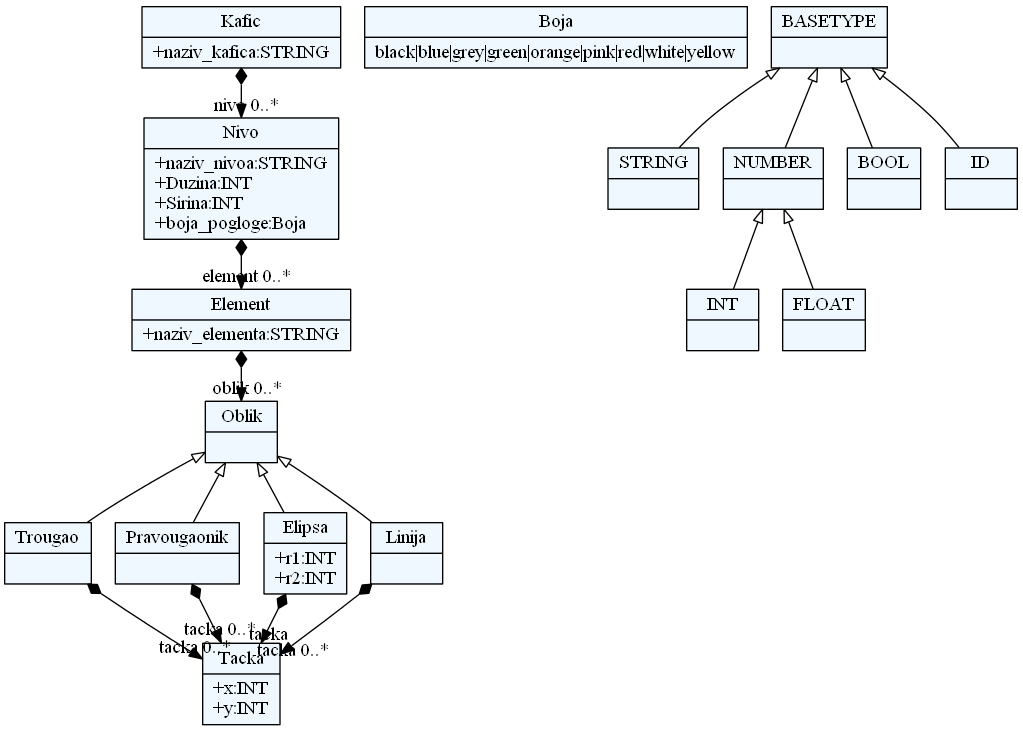
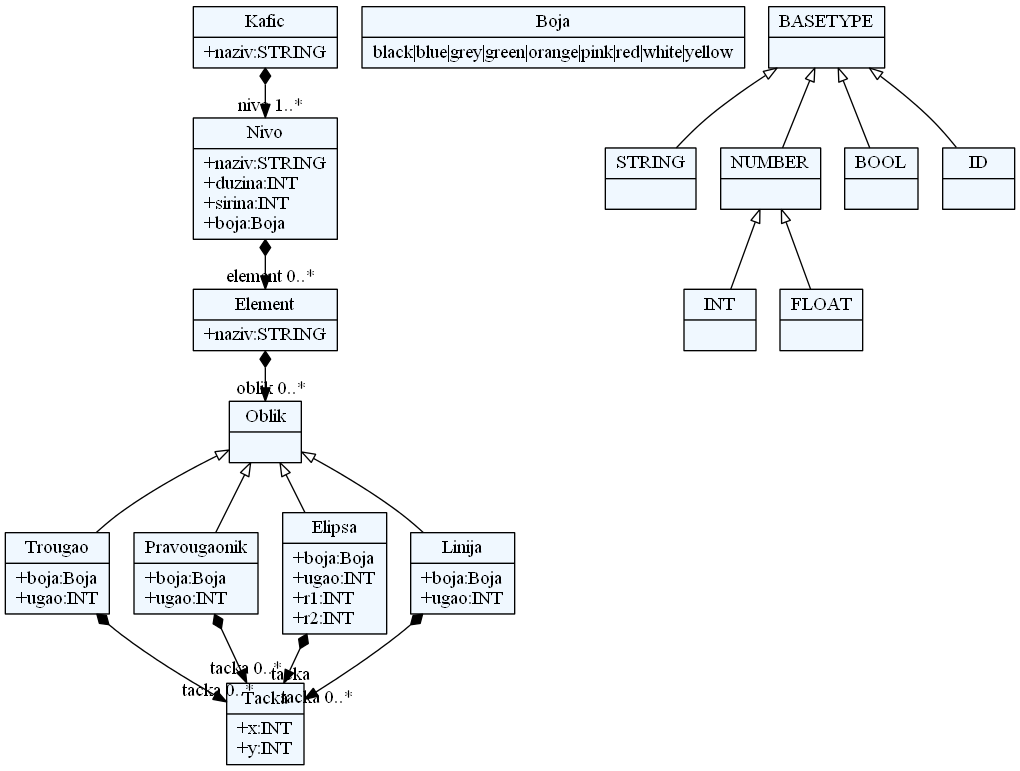
Dodati boja i ugao kao atributi za oblik, i promenjeno da kafic ima 1 ili vise nivoa (makar prizemlje)

Changed region(s): [[0.0, 0.0, 1.0, 0.9932], [0.8814, 0.1204, 0.9118, 0.1505], [0.1216, 0.1806, 0.152, 0.2107]]

diff --git a/JSDProject/generation/languageInterpreter.py b/JSDProject/generation/languageInterpreter.py
@@ -8,18 +8,18 @@ class Interpreter(object):
         
     def interpret(self):
         
-        print (self.model.naziv_kafica)
+        print (self.model.naziv)
         print ('#####')
         for nivo in self.model.nivo:
-            print(nivo.naziv_nivoa)
+            print(nivo.naziv)
         print ('#####')
         for nivo in self.model.nivo:
-            print(nivo.naziv_nivoa+" : \n")
+            print(nivo.naziv+" : \n")
             for element in nivo.element:
-                print ("\t"+ element.naziv_elementa)
+                print ("\t"+ element.naziv)
             print ('#####') 
             for element in nivo.element:
-                print (element.naziv_elementa+" : \n")
+                print (element.naziv+" : \n")
                 for oblik in element.oblik:
                     print ("\t"+ oblik.__class__.__name__)
         print ('#####')
